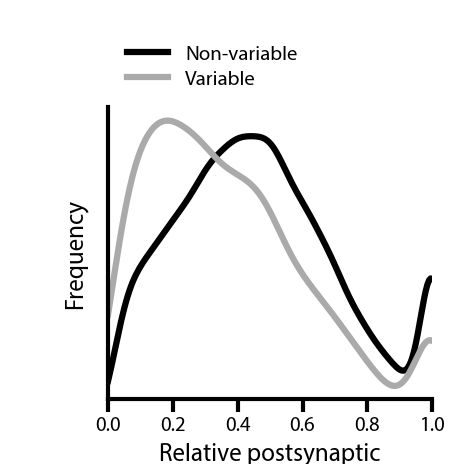
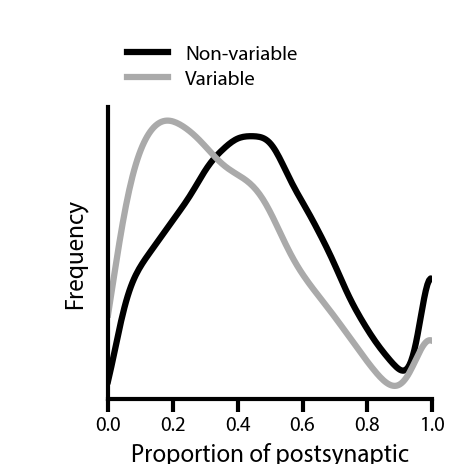
Minor text changes

Changed region(s): [[0.2781, 0.9353, 0.8962, 1.0]]

diff --git a/src/figures/variable_connections.py b/src/figures/variable_connections.py
@@ -237,7 +237,7 @@ class Figure(object):
         self.plt.plot(
             'kde', data_to_plot, colors=['#000000', '#aaaaaa'],
             size=(0.15, 0.135),
-            x_label='Relative postsynaptic\ncontact area at synapse',
+            x_label='Proportion of postsynaptic\ncontact area at synapse',
             yticks=[], 
             y_label='Frequency', ypad=5,
             linewidth=1.5,
